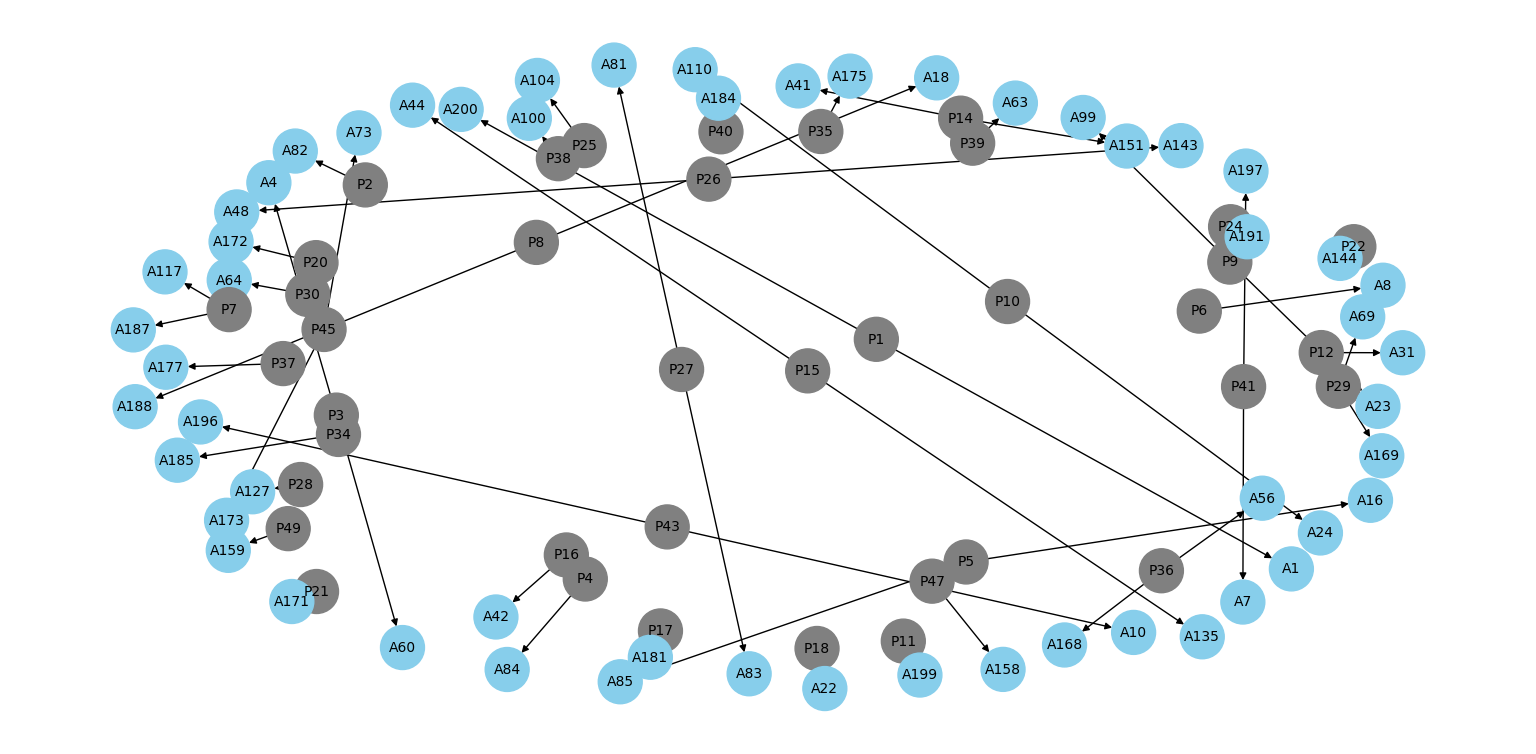
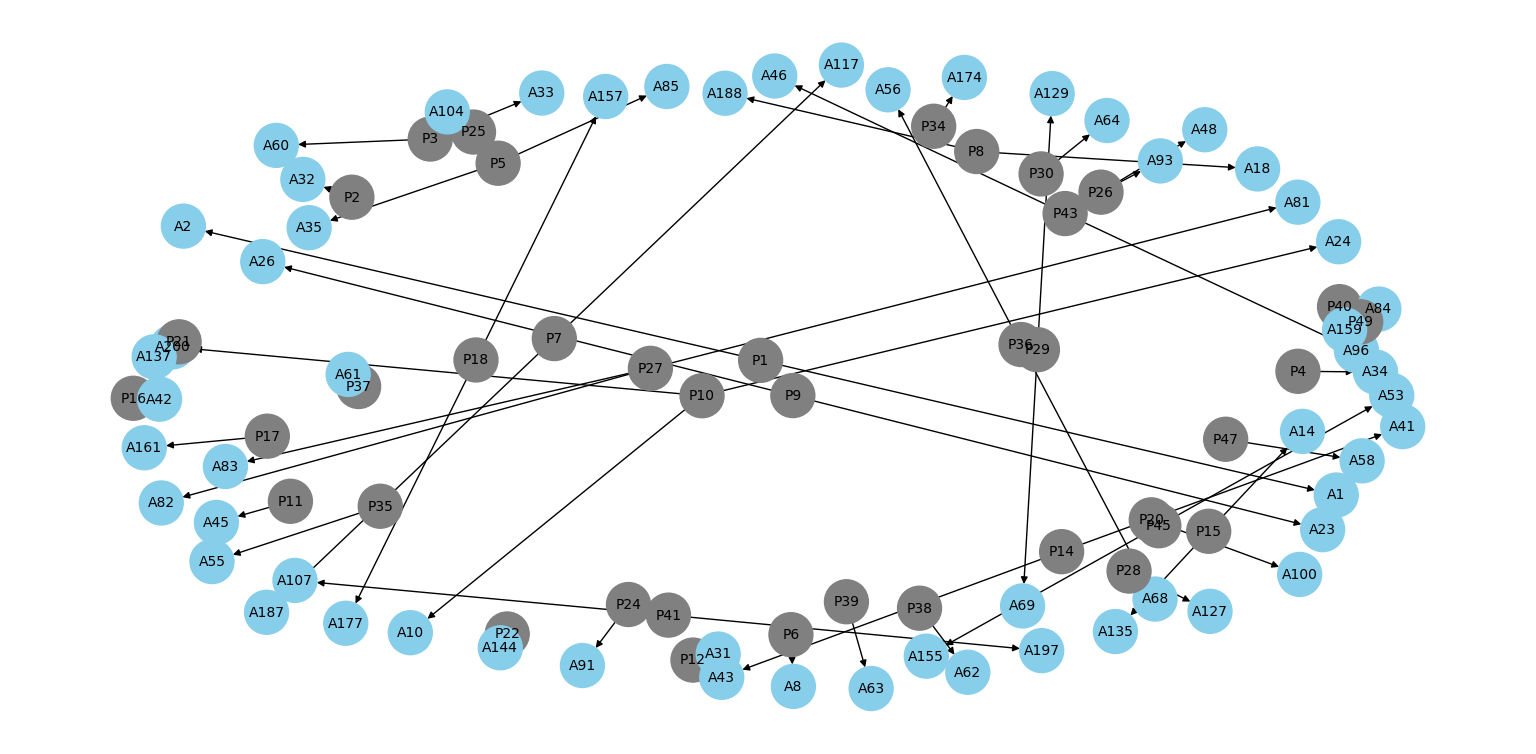
Projeto funcional

diff --git a/dicionarios.py b/dicionarios.py
@@ -5,8 +5,3 @@ projetos = {'P1': (2, 5), 'P2': (1, 5), 'P3': (2, 4), 'P4': (1, 5), 'P5': (2, 4)
 # Código aluno - Projetos preferenciais - Nota do aluno
 alunos = {'A1': ('P1', 'P30', 'P50', 5), 'A2': ('P1', 'P30', 'P51', 5), 'A3': ('P30', 'P34', 'P35', 3), 'A4': ('P2', 'P3', 'P5', 4), 'A5': ('P4', 'P28', 'P34', 3), 'A6': ('P40', 'P9', 'P10', 4), 'A7': ('P41', 'P31', 'P38', 4), 'A8': ('P6', 'P27', 'P8', 5), 'A9': ('P7', 'P29', 'P9', 3), 'A10': ('P8', 'P43', 'P10', 4), 'A11': ('P12', 'P1', 'P1', 4), 'A12': ('P2', 'P20', 'P4', 3), 'A13': ('P3', 'P30', 'P45', 3), 'A14': ('P4', 'P40', 'P15', 4), 'A15': ('P5', 'P48', 'P24', 3), 'A16': ('P6', 'P19', 'P5', 4), 'A17': ('P7', 'P21', 'P18', 4), 'A18': ('P8', 'P47', 'P28', 5), 'A19': ('P9', 'P19', 'P49', 3), 'A20': ('P10', 'P34', 'P5', 3), 'A21': ('P7', 'P17', 'P27', 3), 'A22': ('P18', 'P27', 'P8', 4), 'A23': ('P9', 'P29', 'P39', 4), 'A24': ('P10', 'P20', 'P30', 4), 'A25': ('P50', 'P4', 'P34', 4), 'A26': ('P40', 'P9', 'P15', 4), 'A27': ('P41', 'P31', 'P38', 4), 'A28': ('P6', 'P27', 'P8', 3), 'A29': ('P7', 'P29', 'P9', 3), 'A30': ('P8', 'P43', 'P10', 3), 'A31': ('P12', 'P2', 'P1', 5), 'A32': ('P2', 'P20', 'P4', 5), 'A33': ('P3', 'P30', 'P45', 5), 'A34': ('P4', 'P40', 'P15', 5), 'A35': ('P5', 'P48', 'P24', 5), 'A36': ('P6', 'P19', 'P40', 3), 'A37': ('P7', 'P21', 'P18', 3), 'A38': ('P8', 'P47', 'P28', 3), 'A39': ('P9', 'P19', 'P53', 3), 'A40': ('P10', 'P34', 'P5', 3), 'A41': ('P14', 'P20', 'P24', 4), 'A42': ('P16', 'P12', 'P18', 4), 'A43': ('P6', 'P14', 'P5', 4), 'A44': ('P12', 'P3', 'P15', 4), 'A45': ('P11', 'P38', 'P4', 4), 'A46': ('P43', 'P7', 'P1', 4), 'A47': ('P41', 'P3', 'P8', 4), 'A48': ('P26', 'P7', 'P28', 4), 'A49': ('P37', 'P29', 'P9', 3), 'A50': ('P38', 'P43', 'P10', 4), 'A51': ('P52', 'P1', 'P14', 3), 'A52': ('P32', 'P20', 'P4', 4), 'A53': ('P33', 'P30', 'P45', 4), 'A54': ('P4', 'P40', 'P15', 3), 'A55': ('P35', 'P48', 'P24', 4), 'A56': ('P36', 'P19', 'P40', 4), 'A57': ('P37', 'P21', 'P18', 4), 'A58': ('P38', 'P47', 'P28', 4), 'A59': ('P39', 'P19', 'P49', 3), 'A60': ('P3', 'P34', 'P5', 5), 'A61': ('P37', 'P17', 'P27', 5), 'A62': ('P38', 'P27', 'P8', 5), 'A63': ('P39', 'P29', 'P39', 5), 'A64': ('P30', 'P20', 'P30', 5), 'A65': ('P30', 'P4', 'P34', 3), 'A66': ('P30', 'P9', 'P10', 4), 'A67': ('P31', 'P31', 'P38', 4), 'A68': ('P36', 'P27', 'P8', 4), 'A69': ('P37', 'P29', 'P9', 4), 'A70': ('P38', 'P43', 'P10', 3), 'A71': ('P32', 'P21', 'P31', 4), 'A72': ('P32', 'P20', 'P4', 4), 'A73': ('P33', 'P30', 'P45', 4), 'A74': ('P34', 'P40', 'P15', 3), 'A75': ('P35', 'P48', 'P24', 3), 'A76': ('P36', 'P19', 'P40', 3), 'A77': ('P37', 'P21', 'P18', 3), 'A78': ('P38', 'P47', 'P28', 3), 'A79': ('P39', 'P19', 'P49', 3), 'A80': ('P40', 'P34', 'P5', 3), 'A81': ('P27', 'P17', 'P37', 5), 'A82': ('P2', 'P27', 'P44', 5), 'A83': ('P27', 'P30', 'P5', 5), 'A84': ('P4', 'P40', 'P25', 5), 'A85': ('P5', 'P48', 'P34', 5), 'A86': ('P27', 'P19', 'P10', 3), 'A87': ('P7', 'P21', 'P8', 3), 'A88': ('P8', 'P47', 'P48', 3), 'A89': ('P19', 'P19', 'P9', 3), 'A90': ('P10', 'P34', 'P25', 3), 'A91': ('P24', 'P20', 'P34', 4), 'A92': ('P36', 'P12', 'P48', 4), 'A93': ('P26', 'P14', 'P25', 4), 'A94': ('P13', 'P3', 'P45', 4), 'A95': ('P11', 'P53', 'P24', 4), 'A96': ('P43', 'P47', 'P1', 4), 'A97': ('P41', 'P13', 'P38', 4), 'A98': ('P26', 'P47', 'P18', 4), 'A99': ('P37', 'P9', 'P39', 4), 'A100': ('P38', 'P3', 'P20', 5), 'A101': ('P18', 'P38', 'P28', 3), 'A102': ('P10', 'P40', 'P50', 3), 'A103': ('P3', 'P23', 'P33', 3), 'A104': ('P2', 'P13', 'P25', 4), 'A105': ('P4', 'P8', 'P34', 3), 'A106': ('P40', 'P39', 'P10', 4), 'A107': ('P41', 'P1', 'P38', 5), 'A108': ('P54', 'P27', 'P8', 4), 'A109': ('P7', 'P22', 'P9', 3), 'A110': ('P8', 'P33', 'P10', 4), 'A111': ('P12', 'P34', 'P1', 4), 'A112': ('P42', 'P20', 'P4', 3), 'A113': ('P43', 'P30', 'P45', 3), 'A114': ('P24', 'P40', 'P15', 4), 'A115': ('P4', 'P48', 'P24', 3), 'A116': ('P46', 'P19', 'P40', 4), 'A117': ('P7', 'P21', 'P18', 5), 'A118': ('P28', 'P47', 'P28', 3), 'A119': ('P19', 'P19', 'P49', 3), 'A120': ('P1', 'P34', 'P5', 3), 'A121': ('P7', 'P17', 'P27', 3), 'A122': ('P18', 'P27', 'P8', 3), 'A123': ('P49', 'P29', 'P39', 3), 'A124': ('P11', 'P20', 'P30', 3), 'A125': ('P5', 'P4', 'P34', 3), 'A126': ('P8', 'P9', 'P10', 3), 'A127': ('P28', 'P31', 'P38', 5), 'A128': ('P36', 'P27', 'P8', 4), 'A129': ('P7', 'P29', 'P4', 4), 'A130': ('P8', 'P43', 'P20', 4), 'A131': ('P12', 'P2', 'P14', 4), 'A132': ('P2', 'P20', 'P24', 4), 'A133': ('P30', 'P30', 'P35', 4), 'A134': ('P4', 'P40', 'P25', 4), 'A135': ('P15', 'P48', 'P26', 4), 'A136': ('P46', 'P19', 'P42', 3), 'A137': ('P37', 'P21', 'P28', 5), 'A138': ('P8', 'P47', 'P28', 3), 'A139': ('P9', 'P19', 'P49', 3), 'A140': ('P30', 'P34', 'P5', 3), 'A141': ('P24', 'P20', 'P24', 4), 'A142': ('P26', 'P12', 'P18', 4), 'A143': ('P26', 'P14', 'P5', 4), 'A144': ('P22', 'P3', 'P15', 4), 'A145': ('P21', 'P38', 'P4', 4), 'A146': ('P23', 'P7', 'P1', 4), 'A147': ('P21', 'P3', 'P8', 4), 'A148': ('P6', 'P7', 'P28', 4), 'A149': ('P37', 'P29', 'P9', 4), 'A150': ('P48', 'P43', 'P10', 4), 'A151': ('P42', 'P1', 'P14', 4), 'A152': ('P42', 'P20', 'P4', 4), 'A153': ('P43', 'P30', 'P45', 4), 'A154': ('P44', 'P40', 'P15', 4), 'A155': ('P45', 'P48', 'P24', 4), 'A156': ('P46', 'P19', 'P40', 4), 'A157': ('P37', 'P21', 'P18', 5), 'A158': ('P38', 'P47', 'P28', 4), 'A159': ('P39', 'P19', 'P49', 4), 'A160': ('P30', 'P34', 'P5', 4), 'A161': ('P37', 'P17', 'P27', 4), 'A162': ('P38', 'P27', 'P8', 4), 'A163': ('P39', 'P29', 'P39', 4), 'A164': ('P30', 'P20', 'P30', 4), 'A165': ('P30', 'P4', 'P34', 3), 'A166': ('P30', 'P9', 'P10', 3), 'A167': ('P31', 'P31', 'P38', 4), 'A168': ('P36', 'P27', 'P8', 4), 'A169': ('P37', 'P29', 'P9', 4), 'A170': ('P38', 'P43', 'P10', 4), 'A171': ('P32', 'P21', 'P31', 4), 'A172': ('P32', 'P20', 'P4', 4), 'A173': ('P33', 'P30', 'P45', 4), 'A174': ('P34', 'P40', 'P15', 4), 'A175': ('P35', 'P48', 'P24', 4), 'A176': ('P36', 'P19', 'P40', 3), 'A177': ('P37', 'P21', 'P18', 5), 'A178': ('P18', 'P47', 'P28', 3), 'A179': ('P19', 'P6', 'P49', 3), 'A180': ('P40', 'P34', 'P5', 3), 'A181': ('P27', 'P17', 'P37', 4), 'A182': ('P2', 'P27', 'P44', 4), 'A183': ('P27', 'P30', 'P5', 4), 'A184': ('P4', 'P40', 'P25', 4), 'A185': ('P5', 'P48', 'P34', 4), 'A186': ('P27', 'P16', 'P10', 3), 'A187': ('P7', 'P14', 'P8', 5), 'A188': ('P8', 'P27', 'P48', 5), 'A189': ('P19', 'P29', 'P9', 3), 'A190': ('P10', 'P24', 'P25', 3), 'A191': ('P24', 'P22', 'P34', 4), 'A192': ('P36', 'P22', 'P48', 3), 'A193': ('P26', 'P24', 'P25', 3), 'A194': ('P13', 'P30', 'P45', 3), 'A195': ('P11', 'P23', 'P24', 3), 'A196': ('P43', 'P27', 'P31', 4), 'A197': ('P41', 'P23', 'P38', 5), 'A198': ('P2', 'P50', 'P24', 3), 'A199': ('P13', 'P11', 'P49', 4), 'A200': ('P1', 'P10', 'P20', 5)}
 
-# Aqui é onde guardaremos a relação Projeto_alunos, quais alunos participarão de cada projeto
-participantes_projeto = defaultdict(list)
-
-"""'P1': (), 'P2': (),'P3': (),'P4': (), 'P5': (), 'P6': (), 'P7': (), 'P8': (), 'P9': (), 'P10': (), 'P11': (), 'P12': (), 'P13': (), 'P14': (), 'P15': (), 'P16': (), 'P17': (), 'P18': (), 'P19': (), 'P20': (), 'P21': (), 'P22': (), 'P23': (), 'P24': (), 'P25': (), 'P26': (), 'P27': (), 'P28': (), 'P29': (), 'P30': (), 'P31': (), 'P32': (), 'P33': (), 'P34': (), 'P35': (), 'P36': (), 'P37': (), 'P38': (), 'P39': (), 'P40': (), 'P41': (), 'P42': (), 'P43': (), 'P44': (), 'P45': (), 'P46': (), 'P47': (), 'P48': (), 'P49': (), 'P50': ()"""
-

diff --git a/gale_shapley.py b/gale_shapley.py
@@ -1,85 +1,92 @@
-from proj_alum import alunos, projetos, participantes_projeto
+from proj_alum import alunos, projetos
 from collections import defaultdict #Para manipular dicionarios de forma mais tranquila
 import networkx as nx #Para fazer os grafos
 import matplotlib.pyplot as plt #Para visualização
 
-"""Aqui usaremos o Gale-Shapley eu decidi usar como se os alunos fossem os homens que pedem as mãos das mulheres, e elas serem os projetos pq faz mais sentindo na lógica que alunos podem escolher mais de um projeto. Esse algoritmo é uma base, eh preciso que sejam selecionados o sprojeto e ver se a nota dos alunos é sulficiente e se ha vagas. Mas esse algoritmo faz uma seleção. Poemos construir o resto a partir dele."""
+"""Aqui usaremos o Gale-Shapley decidimos organizar como o exemplo do casamento entre homens e mulheres. Os alunos são os homens que pedem as mãos das mulheres, e as mulheres são os projetos que aceitam os homens (projetos)."""
 
-def asignacao(alunos, projetos, participantes_projeto):
+def gale_shapley(alunos, projetos):
+    participantes_projeto = defaultdict(list) # Aqui é onde guardamos a relação Projeto - alunos, quais alunos participarão de cada projeto
+    capacidade_restante = projetos.copy()
     alunos_livres = list(alunos.keys())
-    cont = 0
-    grafos = []
+    propostas_feitas = {aluno: 0 for aluno in alunos}
 
-    for aluno in alunos_livres:
-        preferencias = alunos[aluno][:-1]  
-        nota = alunos[aluno][-1]          
-
-        for projeto in preferencias:
-            cont += 1
-            #Aqui estamos settando o ultimo aluno que foi adicionado a lista e a sua nota
-            try:
-                ultimo_aluno = participantes_projeto[projeto][-1]
-                nota_ultimo = alunos[ultimo_aluno][-1]
-            except (KeyError, IndexError):
-                ultimo_aluno = None
-                nota_ultimo = None
-
-            if projeto not in projetos:
-                continue
-            else:
-                capacidade, nota_minima = projetos[projeto]
-
-            if cont == 49:
-                grafos.append(dict(participantes_projeto))
-                cont = 0
-
-            if capacidade > 0 and nota >= nota_minima:
-                participantes_projeto[projeto].append(aluno)
-                projetos[projeto] = (capacidade - 1, nota_minima)
-                break
-                
-            if capacidade <= 0 and nota >= nota_ultimo:
-                participantes_projeto[projeto].pop()
-                participantes_projeto[projeto].append(aluno)
-                break
+    while alunos_livres:
+        aluno = alunos_livres.pop(0)
+        preferencias_proj = alunos[aluno][:-1]
+        nota_aluno = alunos[aluno][-1]
         
+        #Aqui verificamos se ainda existem projetos na lista de preferencias
+        if propostas_feitas[aluno] >= len(preferencias_proj):
+            continue
 
-    return participantes_projeto, grafos
+        projeto = preferencias_proj[propostas_feitas[aluno]]
+        propostas_feitas[aluno] += 1
+        
+        #Se o projeto não existir no dicionario de projetos 
+        if projeto not in projetos:
+            alunos_livres.append(aluno)
+            continue
+
+        capacidade, nota_minima = projetos[projeto]
+
+        #Se a nota do aluno for insulficiente ele fica livre outra vez
+        if nota_aluno < nota_minima:
+            alunos_livres.append(aluno)
+            continue
+
+        alunos_alocados = participantes_projeto[projeto]
+
+        if len(alunos_alocados) < capacidade:
+            #Se ainda houverem vagas o aluno é adicionado ao projeto
+            participantes_projeto[projeto].append(aluno)
+        else:
+            #Se nao vamos ver quem e o aluno com a pior nota
+            notas_alunos_alocados = [(a, alunos[a][-1]) for a in alunos_alocados]
+            pior_aluno, pior_nota = min(notas_alunos_alocados, key=lambda x: x[1])
+
+            if nota_aluno > pior_nota:
+                #Se o aluno tiver nota maior que o pior aluno então ele assume o lugar
+                participantes_projeto[projeto].remove(pior_aluno)
+                participantes_projeto[projeto].append(aluno)
+                alunos_livres.append(pior_aluno)
+            else:
+                #Se nao ele é rejeitado
+                alunos_livres.append(aluno) 
 
 
-resultado = asignacao(alunos, projetos, participantes_projeto)
+
+    return participantes_projeto
 
 
-cont_it = 0
-for estados in resultado[1]:
-    cont_it +=1
-    print(f"ITERAÇÃO {cont_it}")
-    for  projeto, alunos in estados.items():
-        print(f"{projeto} - {alunos}")
-    print()
 
-G = nx.DiGraph()
-projetos_cor = set()
-alunos_cor = set()
+def apresentacao():
+    """Aqui nesta função estamos apresentando os pares tanto no terminal quanto na criação do grafo"""
+    resultado = gale_shapley(alunos, projetos)
+    G = nx.DiGraph()
+    projetos_cor = set()
+    alunos_cor = set()
 
-print("PARES FINAIS:")
-for projeto, alunos in resultado[0].items():
-    print(f"{projeto} - {alunos}")
-    projetos_cor.add(projeto)
-    for aluno in alunos:
-        alunos_cor.add(aluno)
-        G.add_edge(projeto, aluno)
+    print("PARES ESTÁVEIS:")
+    for projeto, alunnos in resultado.items():
+        print(f"{projeto} - {alunnos}")
+        projetos_cor.add(projeto)
+        for aluno in alunnos:
+            alunos_cor.add(aluno)
+            G.add_edge(projeto, aluno)
 
-pos = nx.spring_layout(G)
+    pos = nx.spring_layout(G)
 
-node_colors = []
-for node in G.nodes():
-    if node in projetos_cor:
-        node_colors.append('grey')  
-    else:
-        node_colors.append('skyblue')     
+    node_colors = []
+    for node in G.nodes():
+        if node in projetos_cor:
+            node_colors.append('grey')  
+        else:
+            node_colors.append('skyblue')     
 
-nx.draw(G, pos, with_labels=True, node_color=node_colors, node_size=1000, font_size=10) 
-plt.show()
+    nx.draw(G, pos, with_labels=True, node_color=node_colors, node_size=1000, font_size=10) 
+    plt.show()
 
-    
+    return G
+
+apresentacao()
